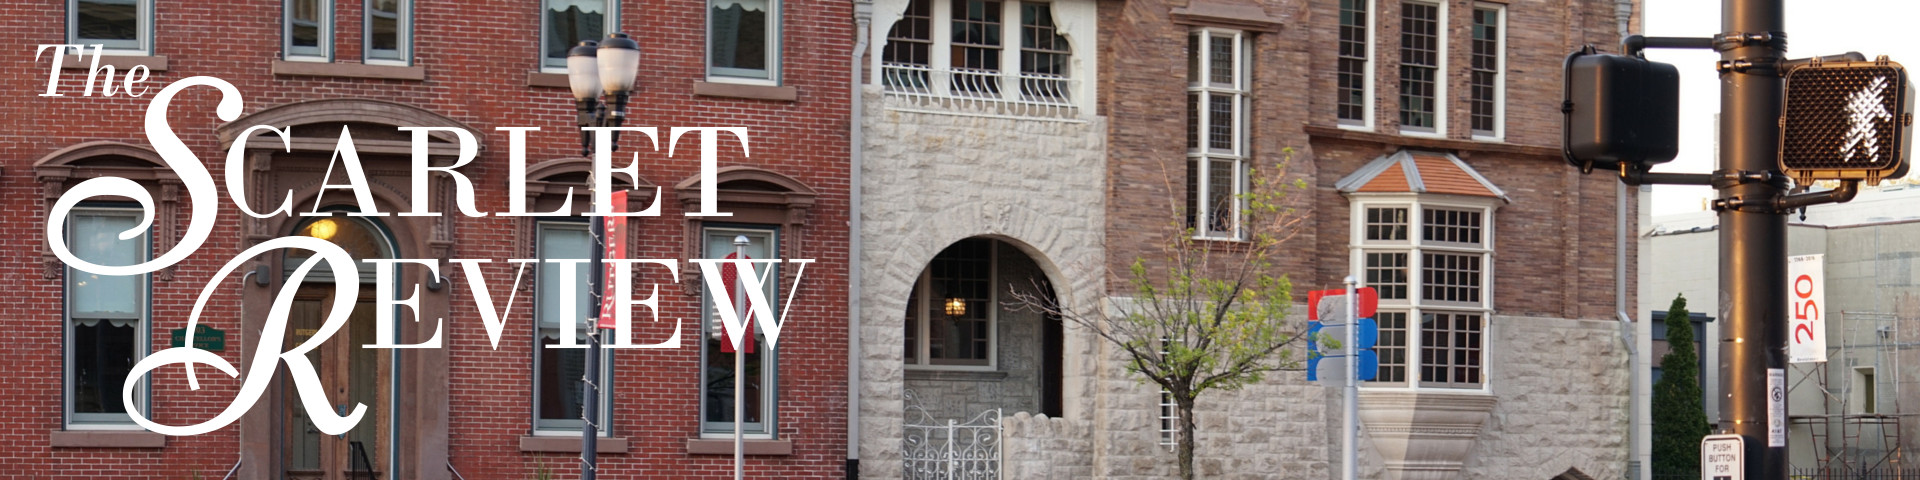
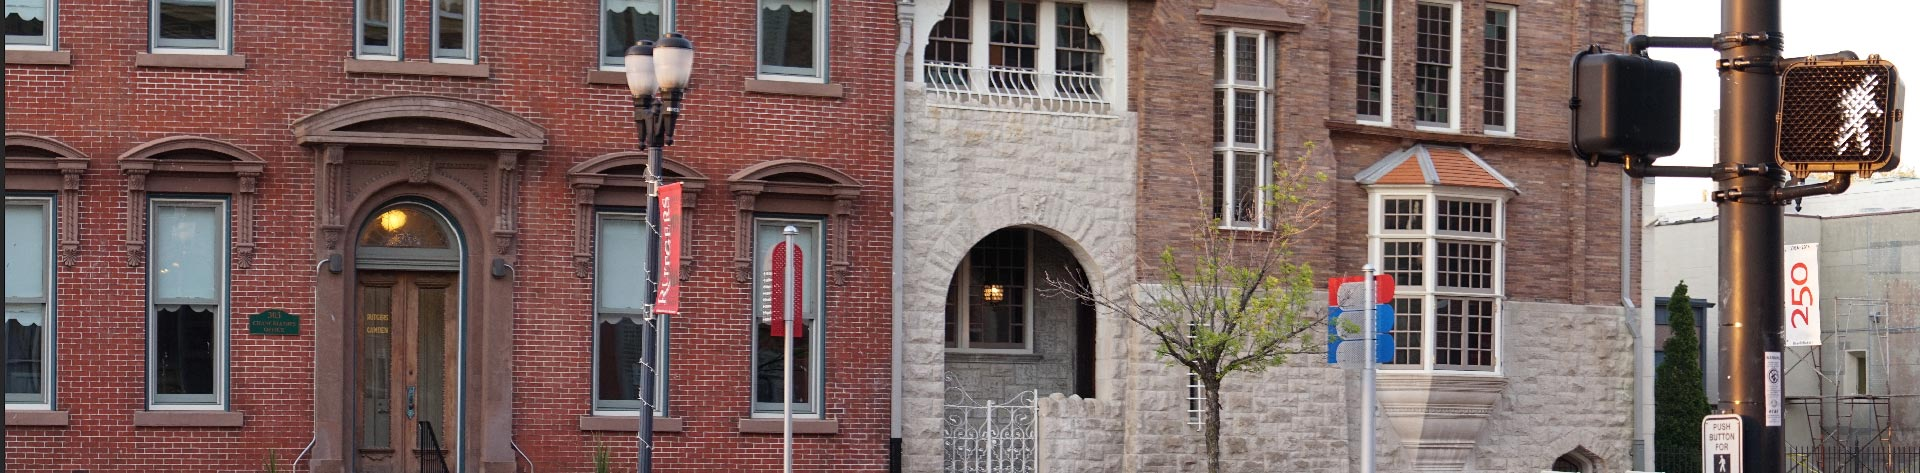
masthead final

diff --git a/index.html b/index.html
@@ -6,9 +6,6 @@
 	<meta name="viewport" content="width=device-width, initial-scale=1">
     <title>The Scarlet Review</title>
     <!-- Bootstrap -->
-	<link href="css/bootstrap.css" rel="stylesheet">
-	<link href="css/style.css" rel="stylesheet" type="text/css">
-
 	<!-- HTML5 shim and Respond.js for IE8 support of HTML5 elements and media queries -->
 	<!-- WARNING: Respond.js doesn't work if you view the page via file:// -->
 	<!--[if lt IE 9]>
@@ -27,7 +24,23 @@
     </div>
 </div>
 	<img src="images/splishsplash.jpg" alt="Rutgers-Camden Writers House" class="splashIMG">
-
+	<noscript id="deferred-styles">
+      <link rel="stylesheet" type="text/css" href="css/bootstrap.css"/>
+      <link href="css/style.css" rel="stylesheet" type="text/css">
+    </noscript>
+    <script>
+      var loadDeferredStyles = function() {
+        var addStylesNode = document.getElementById("deferred-styles");
+        var replacement = document.createElement("div");
+        replacement.innerHTML = addStylesNode.textContent;
+        document.body.appendChild(replacement)
+        addStylesNode.parentElement.removeChild(addStylesNode);
+      };
+      var raf = requestAnimationFrame || mozRequestAnimationFrame ||
+          webkitRequestAnimationFrame || msRequestAnimationFrame;
+      if (raf) raf(function() { window.setTimeout(loadDeferredStyles, 0); });
+      else window.addEventListener('load', loadDeferredStyles);
+    </script>
 <!-- jQuery (necessary for Bootstrap's JavaScript plugins) --> 
 	<script src="js/jquery-1.11.3.min.js"></script>
 

diff --git a/main.css b/main.css
@@ -121,6 +121,31 @@ h2 {
 .contentsText {
 	background-color: #FFFFFF;
 }
+.headerMast {
+	z-index: 1;
+	position: absolute;
+	top: 24px;
+	left: 14px;
+
+}
+.headerIMG {
+	position: relative;
+	top: 0px;
+	min-width: 100%;
+
+}
+.mastWrap {
+	position: relative;
+	top: 0px;
+	left: 0px;
+}
+.mastLogo {
+	position: absolute;
+}
+
+
+
+
 
 @media (max-width:768px){
 .myNav {
@@ -145,6 +170,16 @@ h2 {
 h4 {
 	font-size: 1.5em;
 }
+.headerMast {
+	position: absolute;
+	top: 6%;
+}
+.mastLogo {
+	top: 25%;
+	left: 75%;
+}
+
+
 
 
 
@@ -193,6 +228,18 @@ h4 {
 
 
 }
+.headerMast {
+	position: absolute;
+	top: 15%;
+}
+.mastLogo {
+	left: 80%;
+	top: 12%;
+}
+
+
+
+
 
 
 
@@ -219,6 +266,17 @@ h4 {
 .featuredArticle {
 	display: none;
 }
+.headerMast {
+	position: absolute;
+	top: 4%;
+}
+.mastLogo {
+	left: 74%;
+	top: 4%;
+}
+
+
+
 
 
 
@@ -240,6 +298,24 @@ h4 {
 .figure-caption {
 	text-align: center;
 }
+.headerMast {
+	position: absolute;
+	left: 2%;
+	top: 11%;
+}
+.mastLogo {
+	top: 10%;
+	left: 70%;
+}
 
+
+
+
+}
+
+@media (min-width:1200px){
+.headerMast {
+	max-height: none;
+}
 
 }

diff --git a/Articles/BardandtheBible.html b/Articles/BardandtheBible.html
@@ -22,8 +22,10 @@
   <!-- InstanceEndEditable -->
   </head>
 <body style="padding-bottom: 70px">
-<div>
-	<img src="../images/mastheadqtest.jpg" class="headerIMG img-responsive" alt="The Scarlet Review">
+<div class="mastWrap">
+  <img src="../images/masthead.jpg" class="headerIMG img-responsive" alt="Cooper Street">
+  <img src="../images/splashheadtestpng.png" class="img-responsive headerMast col-xs-5 col-md-4" alt="Scarlet Review">
+  <img src="../images/partialredlogo.jpg" class="img-responsive col-xs-3 col-md-2 mastLogo">
 <nav class="navbar navbar-inverse myNav">
   <div class="container-fluid">
     <!-- Brand and toggle get grouped for better mobile display -->

diff --git a/Articles/MercyVersusMurder.html b/Articles/MercyVersusMurder.html
@@ -22,8 +22,10 @@
   <!-- InstanceEndEditable -->
   </head>
 <body style="padding-bottom: 70px">
-<div>
-	<img src="../images/mastheadqtest.jpg" class="headerIMG img-responsive" alt="The Scarlet Review">
+<div class="mastWrap">
+  <img src="../images/masthead.jpg" class="headerIMG img-responsive" alt="Cooper Street">
+  <img src="../images/splashheadtestpng.png" class="img-responsive headerMast col-xs-5 col-md-4" alt="Scarlet Review">
+  <img src="../images/partialredlogo.jpg" class="img-responsive col-xs-3 col-md-2 mastLogo">
 <nav class="navbar navbar-inverse myNav">
   <div class="container-fluid">
     <!-- Brand and toggle get grouped for better mobile display -->

diff --git a/Articles/NormalizetheFword.html b/Articles/NormalizetheFword.html
@@ -22,8 +22,10 @@
   <!-- InstanceEndEditable -->
   </head>
 <body style="padding-bottom: 70px">
-<div>
-	<img src="../images/mastheadqtest.jpg" class="headerIMG img-responsive" alt="The Scarlet Review">
+<div class="mastWrap">
+  <img src="../images/masthead.jpg" class="headerIMG img-responsive" alt="Cooper Street">
+  <img src="../images/splashheadtestpng.png" class="img-responsive headerMast col-xs-5 col-md-4" alt="Scarlet Review">
+  <img src="../images/partialredlogo.jpg" class="img-responsive col-xs-3 col-md-2 mastLogo">
 <nav class="navbar navbar-inverse myNav">
   <div class="container-fluid">
     <!-- Brand and toggle get grouped for better mobile display -->

diff --git a/Articles/ThisINowBelieveIndianFlatBreadRecipe.html b/Articles/ThisINowBelieveIndianFlatBreadRecipe.html
@@ -22,8 +22,10 @@
   <!-- InstanceEndEditable -->
   </head>
 <body style="padding-bottom: 70px">
-<div>
-	<img src="../images/mastheadqtest.jpg" class="headerIMG img-responsive" alt="The Scarlet Review">
+<div class="mastWrap">
+  <img src="../images/masthead.jpg" class="headerIMG img-responsive" alt="Cooper Street">
+  <img src="../images/splashheadtestpng.png" class="img-responsive headerMast col-xs-5 col-md-4" alt="Scarlet Review">
+  <img src="../images/partialredlogo.jpg" class="img-responsive col-xs-3 col-md-2 mastLogo">
 <nav class="navbar navbar-inverse myNav">
   <div class="container-fluid">
     <!-- Brand and toggle get grouped for better mobile display -->

diff --git a/Articles/hernamesake.html b/Articles/hernamesake.html
@@ -22,8 +22,10 @@
   <!-- InstanceEndEditable -->
   </head>
 <body style="padding-bottom: 70px">
-<div>
-	<img src="../images/mastheadqtest.jpg" class="headerIMG img-responsive" alt="The Scarlet Review">
+<div class="mastWrap">
+  <img src="../images/masthead.jpg" class="headerIMG img-responsive" alt="Cooper Street">
+  <img src="../images/splashheadtestpng.png" class="img-responsive headerMast col-xs-5 col-md-4" alt="Scarlet Review">
+  <img src="../images/partialredlogo.jpg" class="img-responsive col-xs-3 col-md-2 mastLogo">
 <nav class="navbar navbar-inverse myNav">
   <div class="container-fluid">
     <!-- Brand and toggle get grouped for better mobile display -->

diff --git a/Articles/lettertoofficeoftheregistrar.html b/Articles/lettertoofficeoftheregistrar.html
@@ -22,8 +22,10 @@
   <!-- InstanceEndEditable -->
   </head>
 <body style="padding-bottom: 70px">
-<div>
-	<img src="../images/mastheadqtest.jpg" class="headerIMG img-responsive" alt="The Scarlet Review">
+<div class="mastWrap">
+  <img src="../images/masthead.jpg" class="headerIMG img-responsive" alt="Cooper Street">
+  <img src="../images/splashheadtestpng.png" class="img-responsive headerMast col-xs-5 col-md-4" alt="Scarlet Review">
+  <img src="../images/partialredlogo.jpg" class="img-responsive col-xs-3 col-md-2 mastLogo">
 <nav class="navbar navbar-inverse myNav">
   <div class="container-fluid">
     <!-- Brand and toggle get grouped for better mobile display -->

diff --git a/Articles/mediaportrayal.html b/Articles/mediaportrayal.html
@@ -22,8 +22,10 @@
   <!-- InstanceEndEditable -->
   </head>
 <body style="padding-bottom: 70px">
-<div>
-	<img src="../images/mastheadqtest.jpg" class="headerIMG img-responsive" alt="The Scarlet Review">
+<div class="mastWrap">
+  <img src="../images/masthead.jpg" class="headerIMG img-responsive" alt="Cooper Street">
+  <img src="../images/splashheadtestpng.png" class="img-responsive headerMast col-xs-5 col-md-4" alt="Scarlet Review">
+  <img src="../images/partialredlogo.jpg" class="img-responsive col-xs-3 col-md-2 mastLogo">
 <nav class="navbar navbar-inverse myNav">
   <div class="container-fluid">
     <!-- Brand and toggle get grouped for better mobile display -->

diff --git a/Articles/metamorphosispolitical.html b/Articles/metamorphosispolitical.html
@@ -22,8 +22,10 @@
   <!-- InstanceEndEditable -->
   </head>
 <body style="padding-bottom: 70px">
-<div>
-	<img src="../images/mastheadqtest.jpg" class="headerIMG img-responsive" alt="The Scarlet Review">
+<div class="mastWrap">
+  <img src="../images/masthead.jpg" class="headerIMG img-responsive" alt="Cooper Street">
+  <img src="../images/splashheadtestpng.png" class="img-responsive headerMast col-xs-5 col-md-4" alt="Scarlet Review">
+  <img src="../images/partialredlogo.jpg" class="img-responsive col-xs-3 col-md-2 mastLogo">
 <nav class="navbar navbar-inverse myNav">
   <div class="container-fluid">
     <!-- Brand and toggle get grouped for better mobile display -->

diff --git a/Articles/silenceneartheseaweed.html b/Articles/silenceneartheseaweed.html
@@ -22,8 +22,10 @@
   <!-- InstanceEndEditable -->
   </head>
 <body style="padding-bottom: 70px">
-<div>
-	<img src="../images/mastheadqtest.jpg" class="headerIMG img-responsive" alt="The Scarlet Review">
+<div class="mastWrap">
+  <img src="../images/masthead.jpg" class="headerIMG img-responsive" alt="Cooper Street">
+  <img src="../images/splashheadtestpng.png" class="img-responsive headerMast col-xs-5 col-md-4" alt="Scarlet Review">
+  <img src="../images/partialredlogo.jpg" class="img-responsive col-xs-3 col-md-2 mastLogo">
 <nav class="navbar navbar-inverse myNav">
   <div class="container-fluid">
     <!-- Brand and toggle get grouped for better mobile display -->

diff --git a/Articles/theotherside.html b/Articles/theotherside.html
@@ -22,8 +22,10 @@
   <!-- InstanceEndEditable -->
   </head>
 <body style="padding-bottom: 70px">
-<div>
-	<img src="../images/mastheadqtest.jpg" class="headerIMG img-responsive" alt="The Scarlet Review">
+<div class="mastWrap">
+  <img src="../images/masthead.jpg" class="headerIMG img-responsive" alt="Cooper Street">
+  <img src="../images/splashheadtestpng.png" class="img-responsive headerMast col-xs-5 col-md-4" alt="Scarlet Review">
+  <img src="../images/partialredlogo.jpg" class="img-responsive col-xs-3 col-md-2 mastLogo">
 <nav class="navbar navbar-inverse myNav">
   <div class="container-fluid">
     <!-- Brand and toggle get grouped for better mobile display -->
